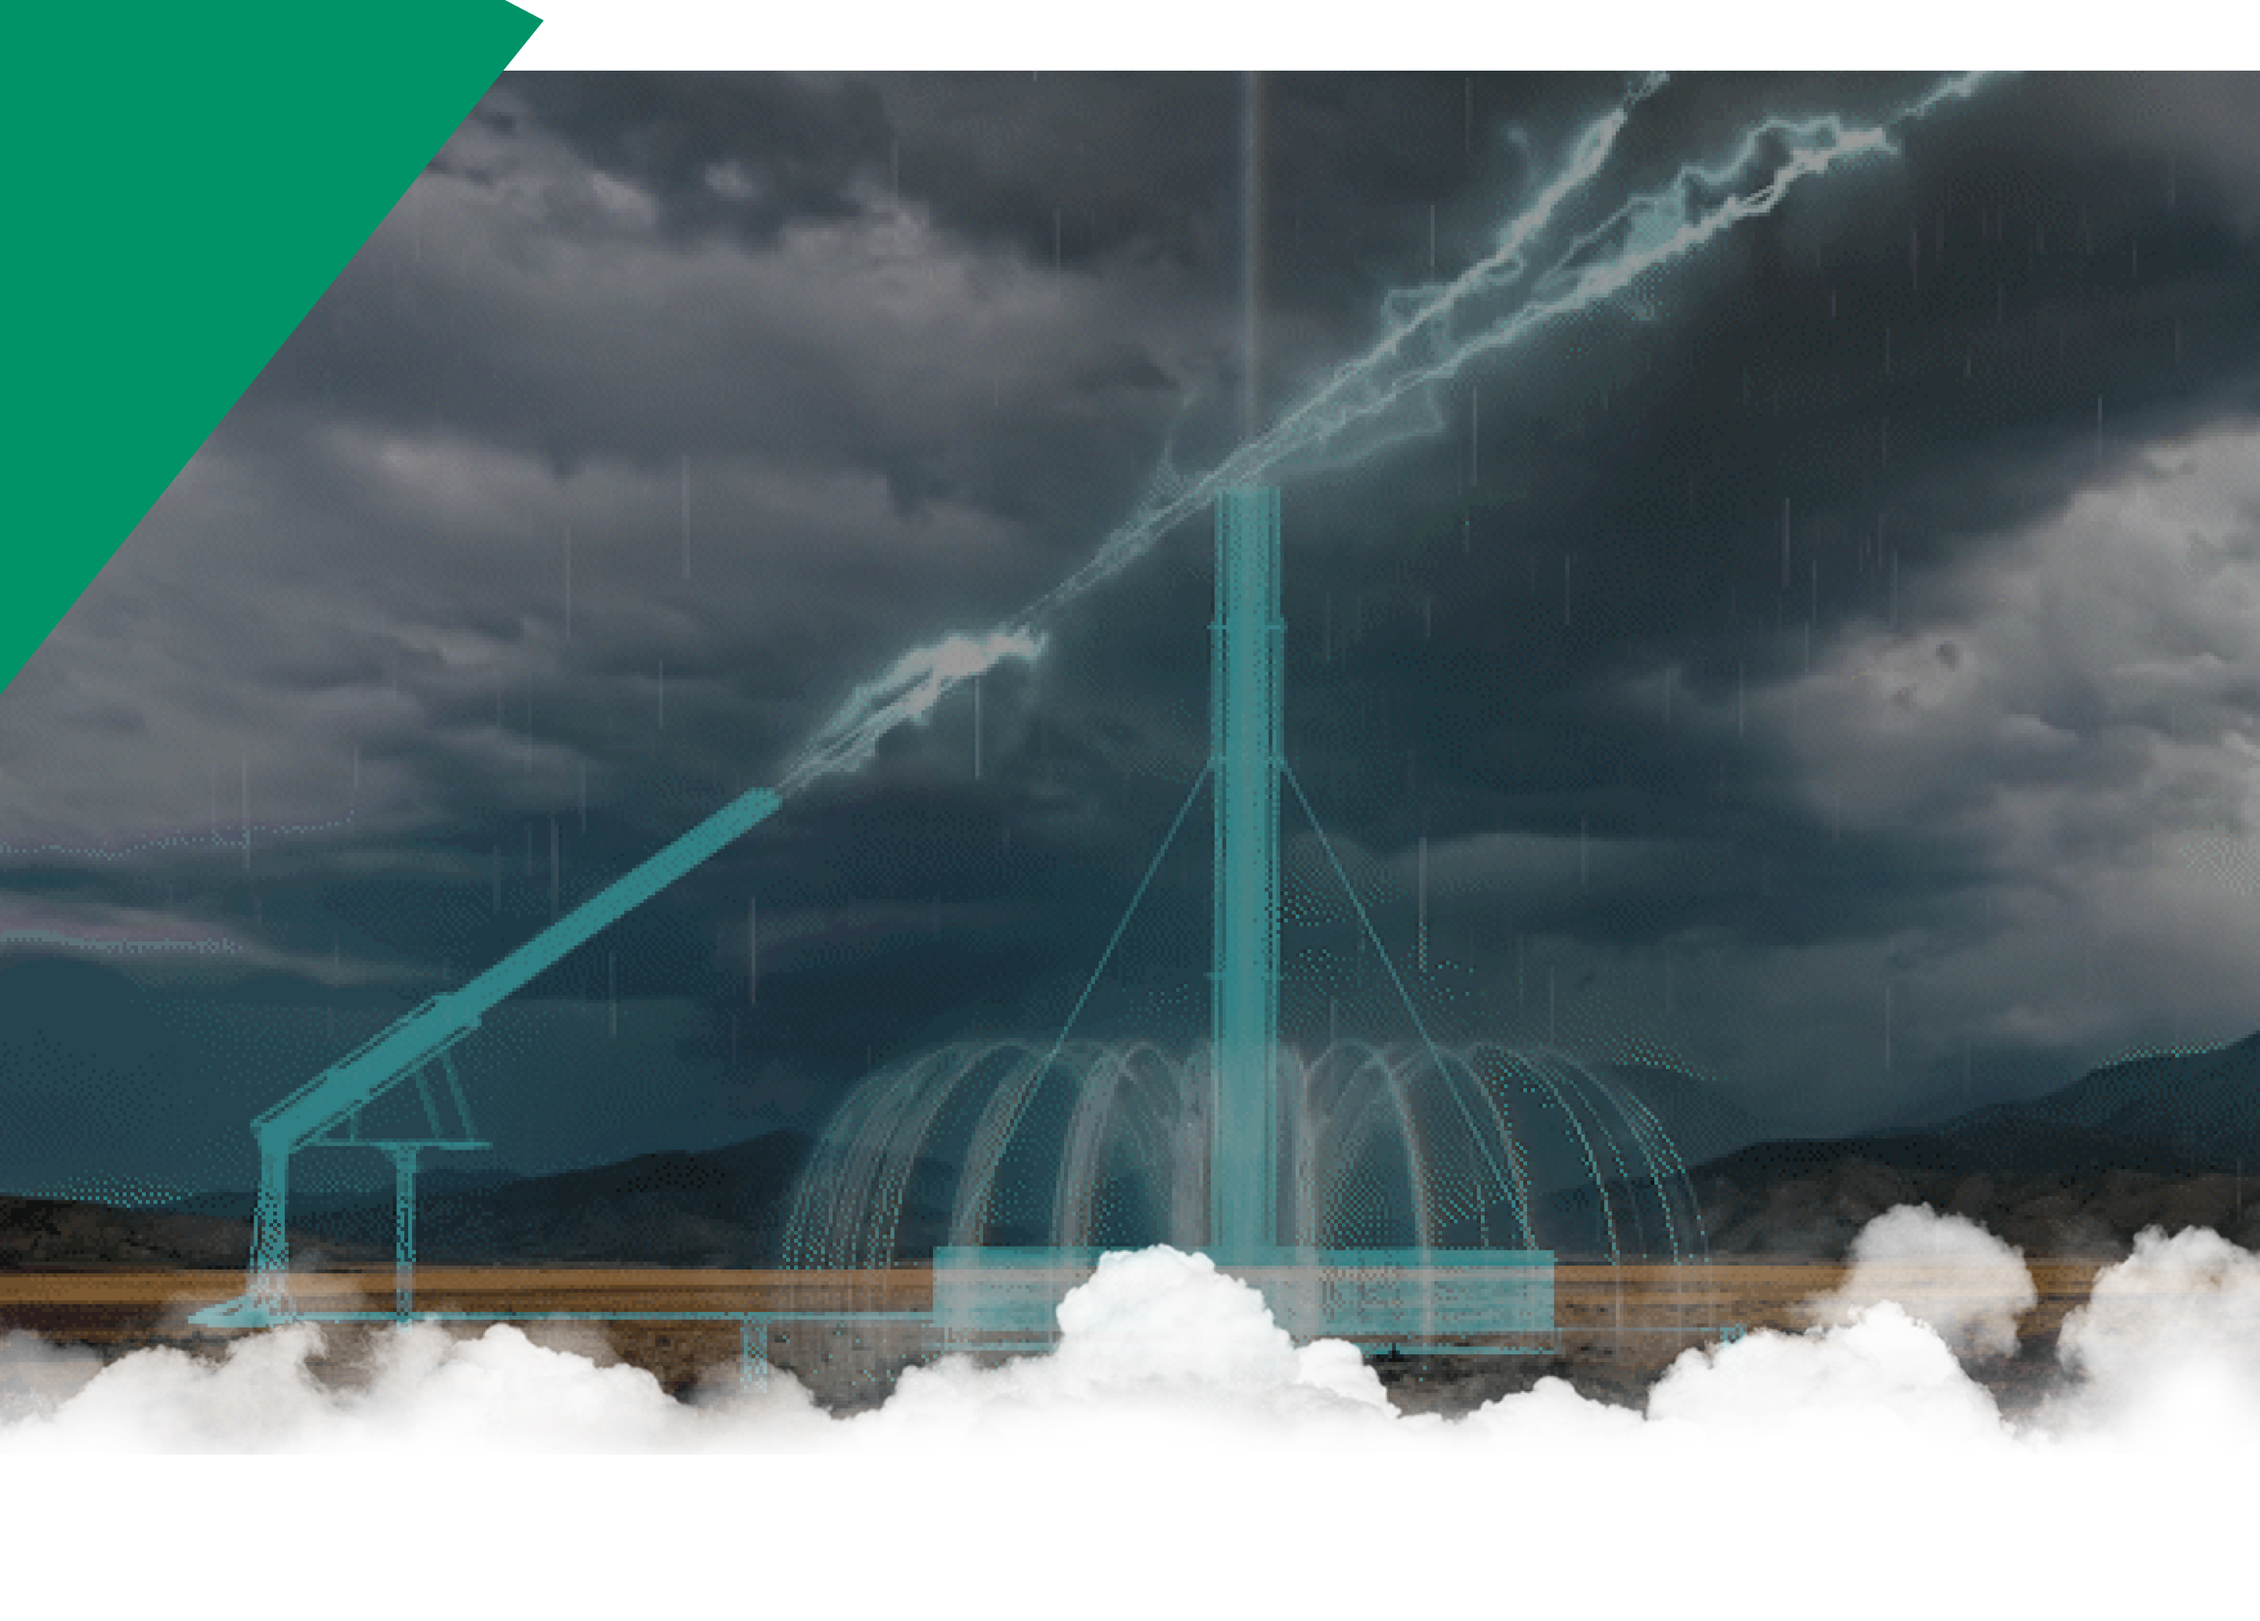
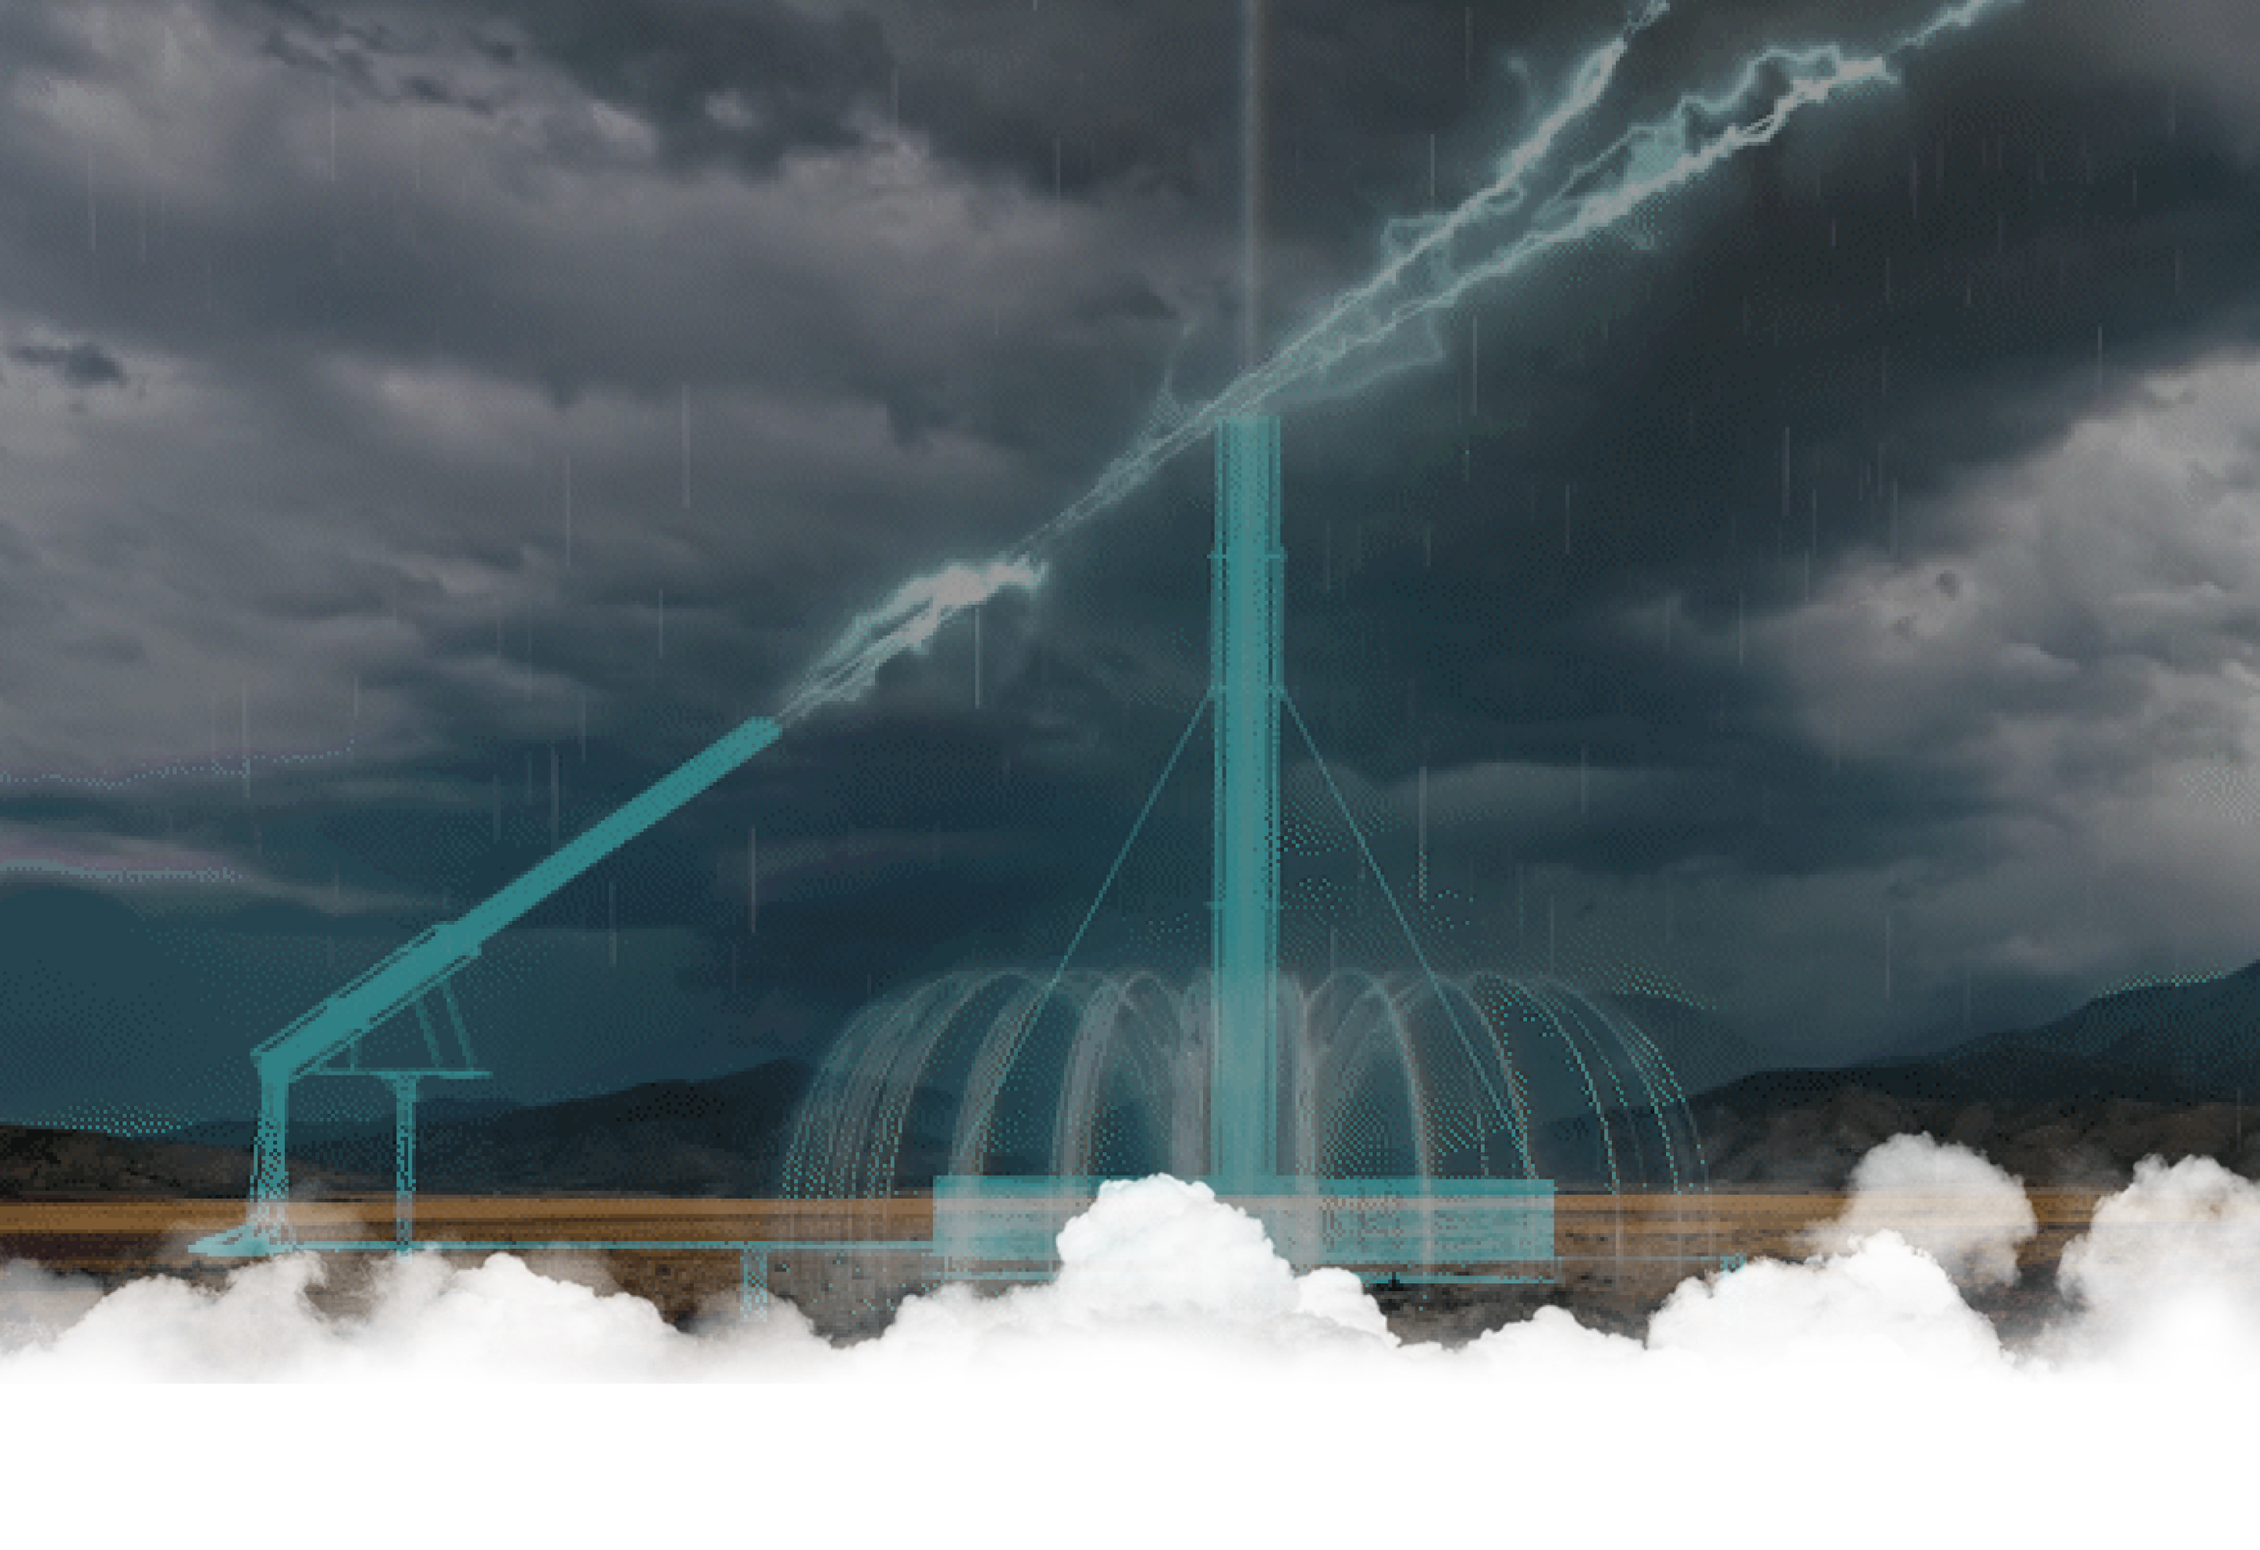
Fixed measures to be more adaptive

diff --git a/index.html b/index.html
@@ -619,23 +619,28 @@
             learn more
           </button>
         </div>
+
+
+
       </div>
     </section>
 
     <section class="science">
       <img src="./images/science.png" alt="Science picture" class="science__image">
       <div class="science__image-blur"></div>
-      <div class="science__card">
-        <div class="science__card-logo-outer">
-          <img src="./images/logo/Resolance LOGO 1.svg" alt="Resolance logo" class="science__card-logo">
+      <div class="wrapper">
+        <div class="science__card">
+          <div class="science__card-logo-outer">
+            <img src="./images/logo/Resolance LOGO 1.svg" alt="Resolance logo" class="science__card-logo">
+          </div>
+          <h2 class="science__card-title">Science and technology</h2>
+          <p class="science__card-text">
+            A scientific achievement that reshapes weather, environment and life energy.
+          </p>
+          <button class="button-regular">
+            learn more
+          </button>
         </div>
-        <h2 class="science__card-title">Science and technology</h2>
-        <p class="science__card-text">
-          A scientific achievement that reshapes weather, environment and life energy.
-        </p>
-        <button class="button-regular">
-          learn more
-        </button>
       </div>
     </section>
 

diff --git a/blocks/main/main.css b/blocks/main/main.css
@@ -1,13 +1,25 @@
 .main {
   position: relative;
-  height: 100vh;
+  min-height: 100vh;
   background-image: url(../../images/header/header-bg2.jpg);
   background-size: cover;
-  background-position: center;
+  background-position: top;
   background-repeat: no-repeat;
   color: #fff;
   display: flex;
   flex-direction: column;
   justify-content: center;
   align-items: flex-start;
+}
+
+.main::before {
+  content: '';
+  position: absolute;
+  width: 680px;
+  height: 938px;
+  left: -382px;
+  top: -356px;
+
+  background: var(--icons-bgc);
+  transform: rotate(32.95deg);
 }

diff --git a/blocks/testimonials/__slider/testimonials__slider.css b/blocks/testimonials/__slider/testimonials__slider.css
@@ -2,7 +2,7 @@
   box-sizing: border-box;
   position: absolute;
   top: 212px;
-  left: 112px;
+  left: 64px;
   width: 780px;
   height: 459px;
   padding: 50px 52px;
@@ -10,4 +10,11 @@
   background: #FFFFFF;
   box-shadow: 0px 10px 30px rgba(41, 41, 41, 0.08);
   border-radius: 10px;
+}
+
+@media (max-width: 1440px) {
+  .testimonials__slider {
+    left: 22px;
+    width: 50%;
+  }
 }

diff --git a/blocks/header/__buttons/header__buttons.css b/blocks/header/__buttons/header__buttons.css
@@ -1,10 +1,16 @@
 .header__buttons {
   height: 100%;
   width: 30%;
-  padding-right: 48px;
+  padding-left: 56px;
   display: flex;
-  justify-content: flex-end;
+  justify-content: flex-start;
   align-items: center;
   background-color: var(--line-links);
   z-index: 1;
+}
+
+@media (max-width: 1440px) {
+  .header__buttons {
+  width: 40%;
+  }
 }

diff --git a/blocks/footer/__subscribe-email/footer__subscribe-email.css b/blocks/footer/__subscribe-email/footer__subscribe-email.css
@@ -2,8 +2,15 @@
   box-sizing: border-box;
   width: 312px;
   margin-right: 26px;
-  padding: 15px 0px 16px 21px;
+  padding: 14px 0px 14px 21px;
 
   border: 1px solid #DDDDDD;
   border-radius: 5px;
+}
+
+@media (max-width: 1440px) {
+  .footer__subscribe-email {
+    width: 30%;
+    margin-right: 0;
+  }
 }

diff --git a/blocks/science/__image/science__image.css b/blocks/science/__image/science__image.css
@@ -1,11 +1,12 @@
 .science__image {
   position: absolute;
-  top: 0;
+  bottom: 0;
   left: 0;
   width: 1068px;
   height: 650px;
-  background-image: url(../../images/science.png);
   filter: grayscale(100%);
   mix-blend-mode: difference;
   opacity: 0.7;
+  object-fit: cover;
+  object-position: left;
 }

diff --git a/blocks/header/__kpi-trees/header__kpi-trees.css b/blocks/header/__kpi-trees/header__kpi-trees.css
@@ -1,6 +1,6 @@
 .header__kpi-trees {
   position: absolute;
-  width: 30%;
+  width: 40%;
   padding-right: 48px;
   height: 100%;
   top: 0;
@@ -16,4 +16,10 @@
   font-size: 14px;
   line-height: 23px;
   z-index: 1;
+}
+
+@media (max-width: 1440px) {
+  .header__kpi-trees {
+    width: 60%;
+  }
 }

diff --git a/blocks/footer/__subscribe-name/footer__subscribe-name.css b/blocks/footer/__subscribe-name/footer__subscribe-name.css
@@ -1,8 +1,14 @@
 .footer__subscribe-name {
   box-sizing: border-box;
   width: 259px;
-  padding: 15px 0px 16px 21px;
+  padding: 14px 0px 14px 21px;
 
   border: 1px solid #DDDDDD;
   border-radius: 5px;
+}
+
+@media (max-width: 1440px) {
+  .footer__subscribe-name {
+    width: 30%;
+  }
 }

diff --git a/blocks/page/page.css b/blocks/page/page.css
@@ -2,9 +2,13 @@
   position: relative;
   font-family: 'Poppins', 'Arial', sans-serif;
   font-style: normal;
+  font-size: 16px;
   font-weight: normal;
-  box-sizing: border-box;
   margin: 0;
   padding: 0;
   background-color: #fff;
+}
+
+* {
+  box-sizing: border-box;
 }

diff --git a/blocks/join/join.css b/blocks/join/join.css
@@ -1,6 +1,6 @@
 .join {
-  padding-top: 40px;
-  margin-bottom: 54px;
+  box-sizing: border-box;
+  padding: 40px 0 54px;
   width: 100%;
   height: 397px;
   background-image: url(../../images/join_bg.jpg);

diff --git a/blocks/science/__image-blur/science__image-blur.css b/blocks/science/__image-blur/science__image-blur.css
@@ -2,7 +2,7 @@
   position: absolute;
   width: 1442px;
   height: 150px;
-  left: 0;
+  left: 20%;
   bottom: 0;
 
   background: linear-gradient(180deg, #FFFFFF 46.79%, rgba(255, 255, 255, 0) 100%);

diff --git a/blocks/community/community.css b/blocks/community/community.css
@@ -1,6 +1,5 @@
 .community {
-  height: 939px;
-  padding: 113px 0 143px;
+  padding: 168px 0 143px;
 
   background-image: url(../../images/community_bg.png);
   background-size: cover;
